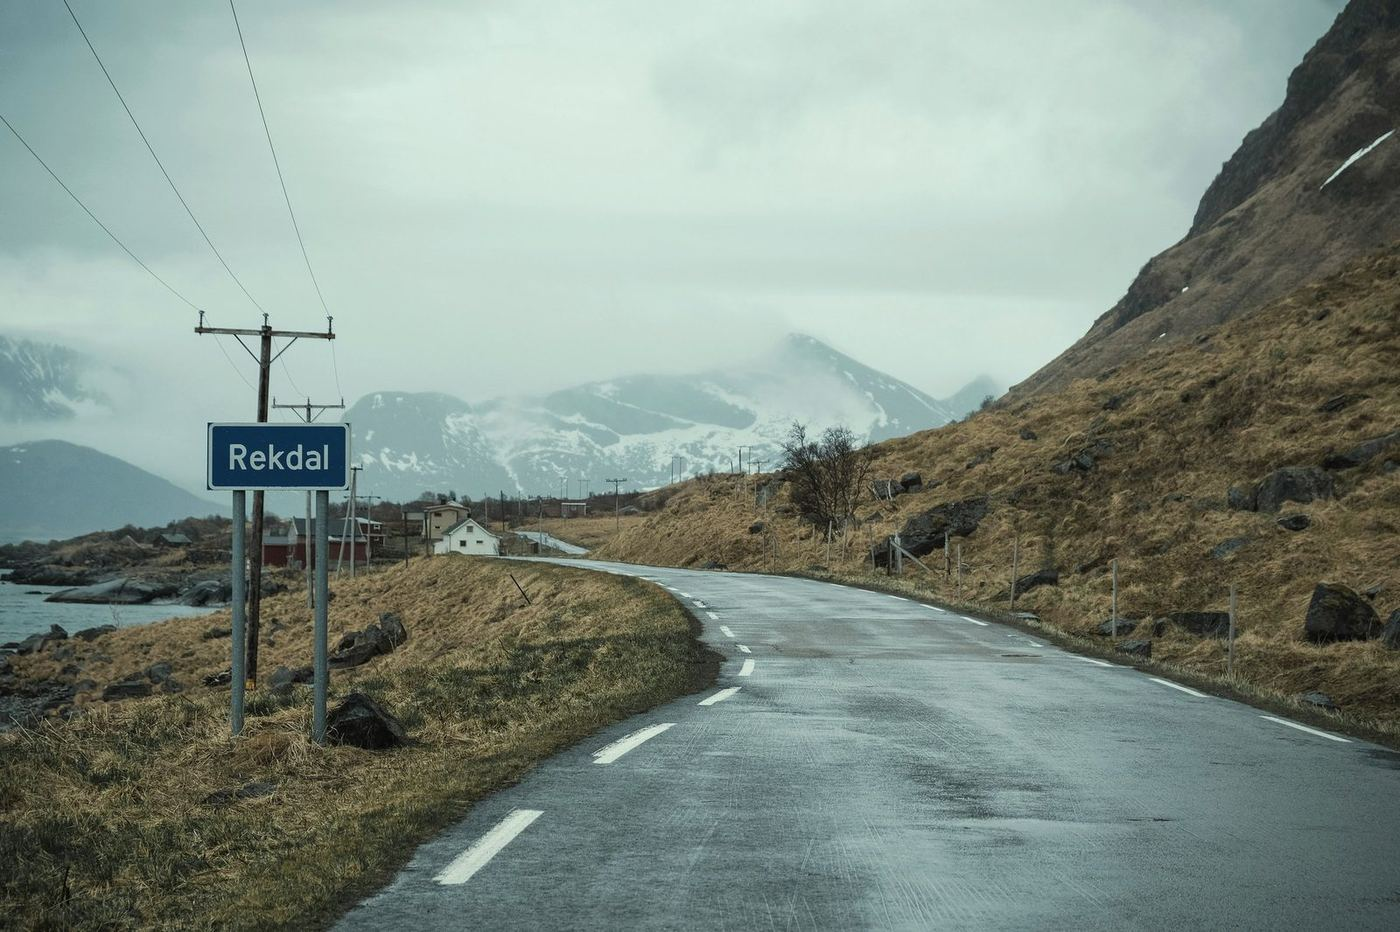
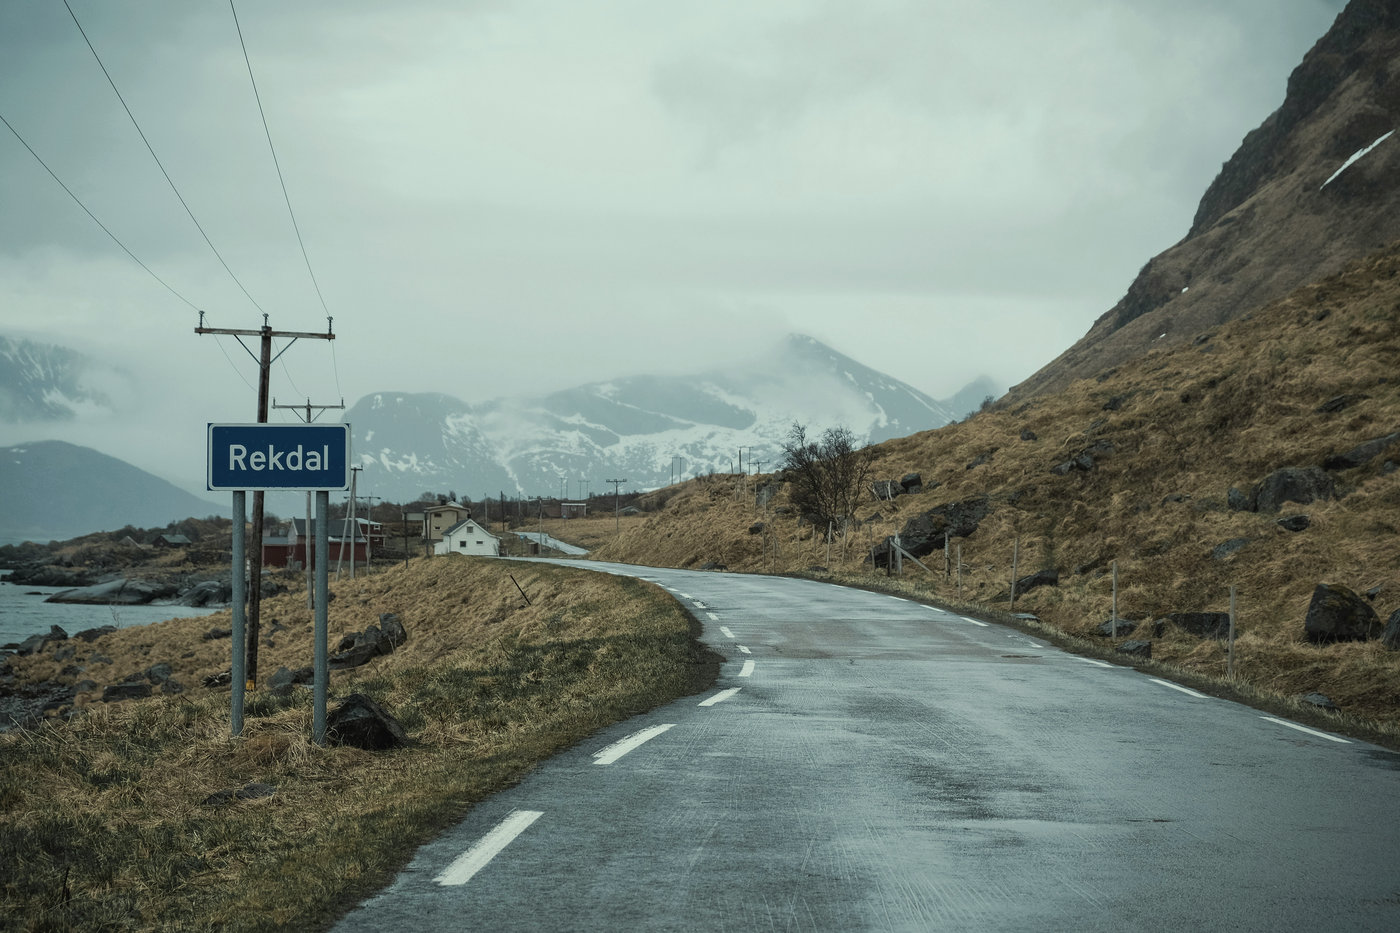
Add files via upload

diff --git a/index.html b/index.html
@@ -319,12 +319,13 @@
     視覺邏輯：照片中段的公路引導視線進入畫面，文字分布讓視線繞一圈
   -->
   <div class="hero__media" aria-hidden="true">
-    <picture>
-      <source media="(max-width: 768px)" srcset="hero-mobile.jpg" />
-      <img src="hero.jpg" alt="霧中蜿蜒的公路通往遠方的雪山" class="hero__img"
-           loading="eager" fetchpriority="high" decoding="async"
-           width="1600" height="1067" />
-    </picture>
+    <img src="hero.jpg"
+         srcset="hero-mobile.jpg 1400w, hero.jpg 1920w"
+         sizes="100vw"
+         alt="霧中蜿蜒的公路通往遠方的雪山"
+         class="hero__img"
+         loading="eager" fetchpriority="high" decoding="async"
+         width="1920" height="1280" />
   </div>
 
   <!-- 文字層 -->

diff --git a/style.css b/style.css
@@ -588,8 +588,13 @@ body.is-menu-open .site-header {
   width: 100%;
   height: 100%;
   object-fit: cover;
-  /* 配合品牌氣味的細微調整 */
-  filter: saturate(0.95) brightness(0.95);
+  /* 提示瀏覽器以高品質演算法縮放圖片，行動裝置上明顯更銳利 */
+  image-rendering: -webkit-optimize-contrast;
+  image-rendering: crisp-edges;
+  /* 強制 GPU 合成層，避免在某些行動瀏覽器上被視為一般紋理而降採樣 */
+  transform: translateZ(0);
+  backface-visibility: hidden;
+  /* 注意：色調已在圖檔本身處理過，CSS 不再做 filter，避免手機 GPU 二次光柵化造成模糊 */
 }
 
 /* 漸層遮罩 — 三層，分別保護上中標題、左下副標、右下小字的可讀性 */
